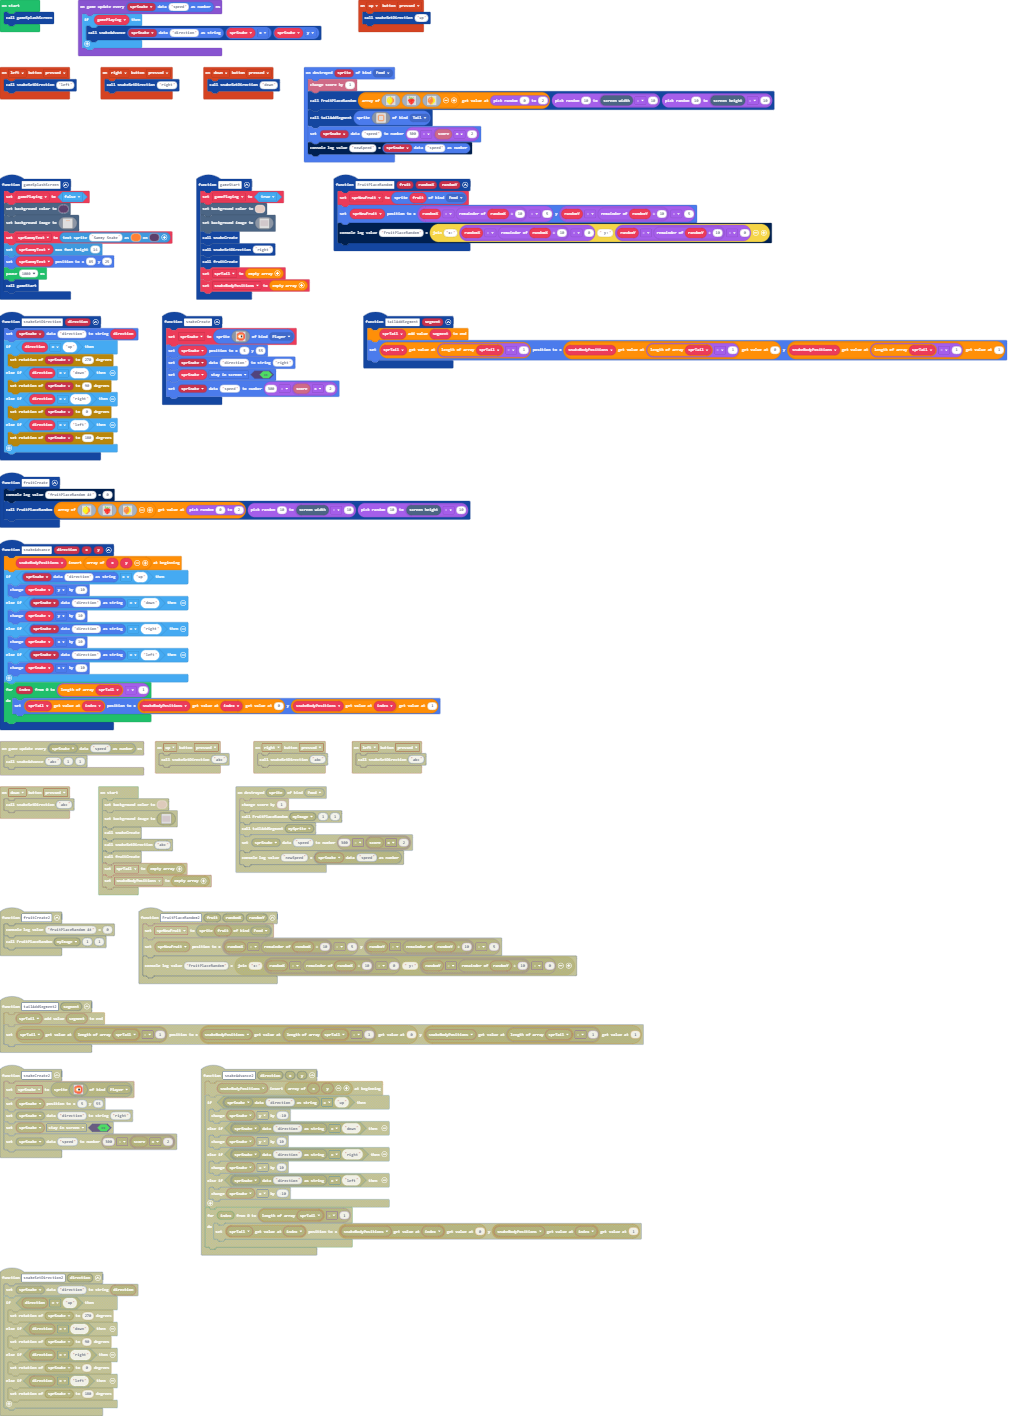
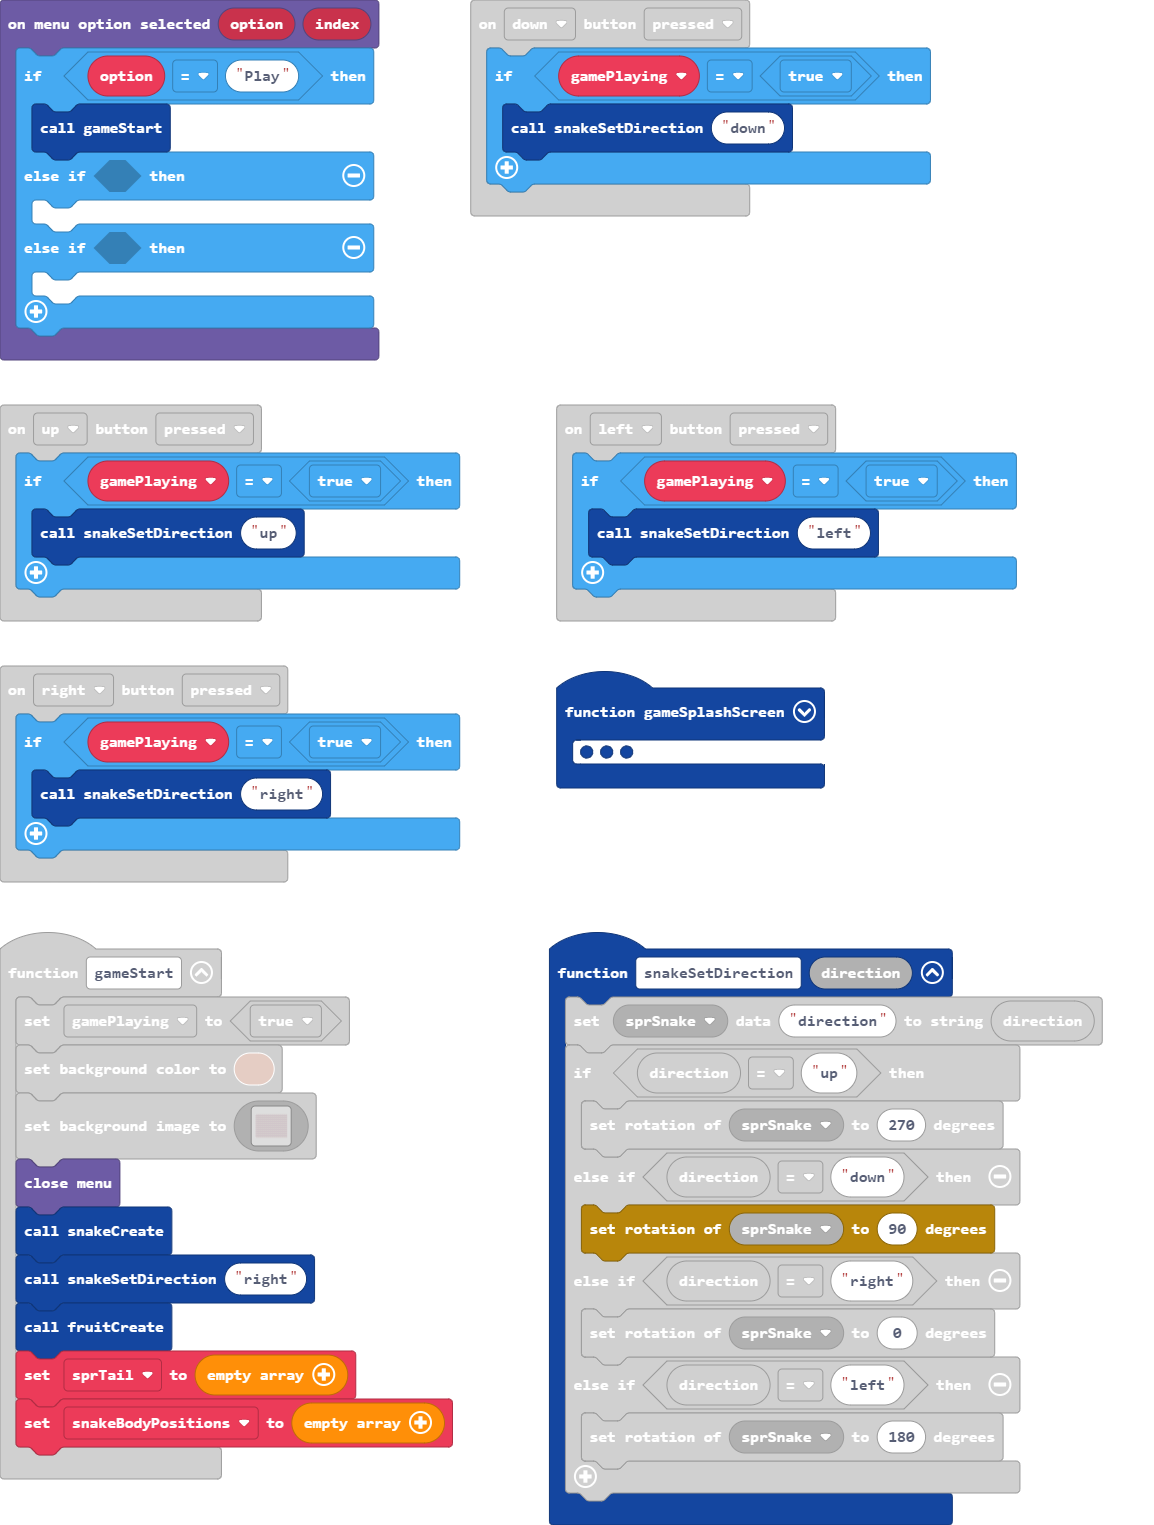
Working on the menu and splash screen.

diff --git a/main.ts b/main.ts
@@ -19,7 +19,9 @@ function snakeSetDirection (direction: string) {
     }
 }
 controller.up.onEvent(ControllerButtonEvent.Pressed, function () {
-    snakeSetDirection("up")
+    if (gamePlaying == true) {
+        snakeSetDirection("up")
+    }
 })
 sprites.onDestroyed(SpriteKind.Food, function (sprite) {
     info.changeScoreBy(1)
@@ -39,7 +41,9 @@ function snakeCreate () {
     sprites.setDataNumber(sprSnake, "speed", 300 - info.score() * 2)
 }
 controller.left.onEvent(ControllerButtonEvent.Pressed, function () {
-    snakeSetDirection("left")
+    if (gamePlaying == true) {
+        snakeSetDirection("left")
+    }
 })
 function tailAddSegment (segment: Sprite) {
     sprTail.push(segment)
@@ -47,23 +51,23 @@ function tailAddSegment (segment: Sprite) {
 }
 function gameSplashScreen () {
     gamePlaying = false
-    scene.setBackgroundColor(12)
+    scene.setBackgroundColor(13)
     scene.setBackgroundImage(img`
         ................................................................................................................................................................
+        ................................................................................................................................................................
+        ................................................................................................................................................................
+        ................................................................................................................................................................
+        ................................................................................................................................................................
         ............................................................................................................22222...............................................
         ..........................................................................................................22444442..............................................
         ..........................................44444...44444...44444...44444...44444...44444...44444...44444..2444444442.............................................
-        ..........................................44444...44444...44444...44444...44444...44444...44444...44444..4441111142.............................................
-        ..........................................44444...44444...44444...44444...44444...44444...44444...44444..44111ff142.............................................
-        ..........................................44444...44444...44444...44444...44444...44444...44444...44444..44111ff142.............................................
-        ..........................................44444...44444...44444...44444...44444...44444...44444...44444..4441111142.............................................
+        ..........................................4...4...4...4...4...4...4...4...4...4...4...4...4...4...4...4..4441111142.............................................
+        ..........................................4...4...4...4...4...4...4...4...4...4...4...4...4...4...4...4..44111ff142.............................................
+        ..........................................4...4...4...4...4...4...4...4...4...4...4...4...4...4...4...4..44111ff142.............................................
+        ..........................................4...4...4...4...4...4...4...4...4...4...4...4...4...4...4...4..4441111142.............................................
         ..........................................44444...44444...44444...44444...44444...44444...44444...44444..2444444442.............................................
         ..........................................................................................................22444442..............................................
         ............................................................................................................22222...............................................
-        ................................................................................................................................................................
-        ................................................................................................................................................................
-        ................................................................................................................................................................
-        ................................................................................................................................................................
         ................................................................................................................................................................
         ................................................................................................................................................................
         ................................................................................................................................................................
@@ -170,17 +174,21 @@ function gameSplashScreen () {
         ................................................................................................................................................................
         ................................................................................................................................................................
         `)
-    sprSammyText = textsprite.create("Sammy Snake", 12, 4)
+    sprSammyText = textsprite.create("Sammy Snake", 6, 4)
     sprSammyText.setMaxFontHeight(14)
     sprSammyText.setPosition(85, 25)
-    pause(1000)
-    gameStart()
+    blockMenu.showMenu(["Play", "Instructions", "Credits"], MenuStyle.List, MenuLocation.BottomHalf)
+    blockMenu.setColors(1, 13)
 }
 controller.right.onEvent(ControllerButtonEvent.Pressed, function () {
-    snakeSetDirection("right")
+    if (gamePlaying == true) {
+        snakeSetDirection("right")
+    }
 })
 controller.down.onEvent(ControllerButtonEvent.Pressed, function () {
-    snakeSetDirection("down")
+    if (gamePlaying == true) {
+        snakeSetDirection("down")
+    }
 })
 function fruitCreate () {
     console.logValue("fruitPlaceRandom At", 0)
@@ -208,16 +216,26 @@ function gameStart () {
     gamePlaying = true
     scene.setBackgroundColor(13)
     scene.setBackgroundImage(assets.image`game-grid`)
+    blockMenu.closeMenu()
     snakeCreate()
     snakeSetDirection("right")
     fruitCreate()
     sprTail = []
     snakeBodyPositions = []
 }
+blockMenu.onMenuOptionSelected(function (option, index) {
+    if (option == "Play") {
+        gameStart()
+    } else if (false) {
+    	
+    } else if (false) {
+    	
+    }
+})
 let sprSammyText: TextSprite = null
-let gamePlaying = false
 let snakeBodyPositions: number[][] = []
 let sprTail: Sprite[] = []
+let gamePlaying = false
 let sprSnake: Sprite = null
 let sprNewFruit: Sprite = null
 gameSplashScreen()
